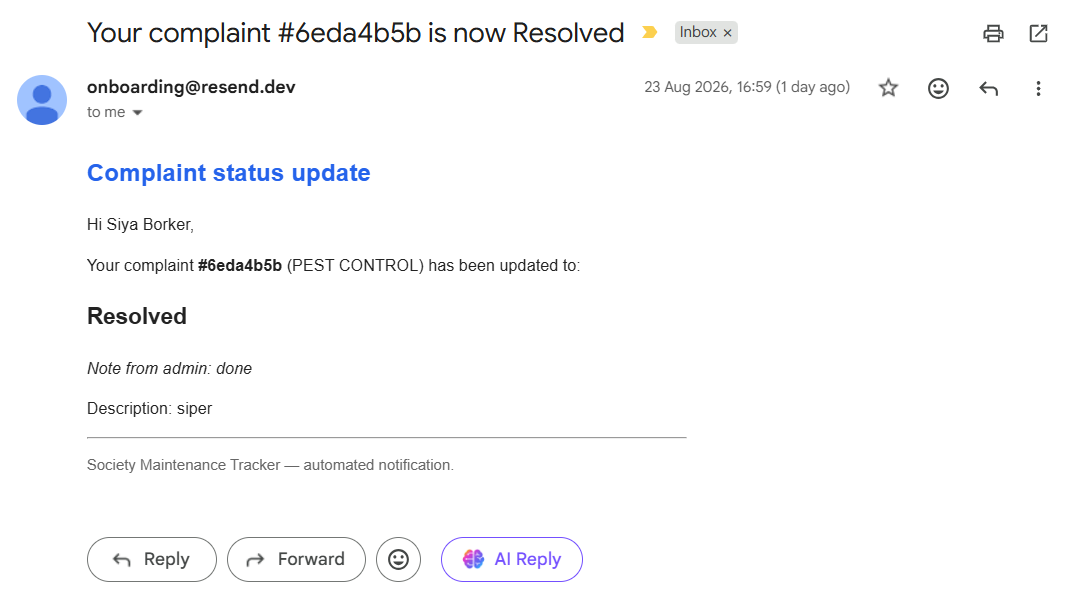
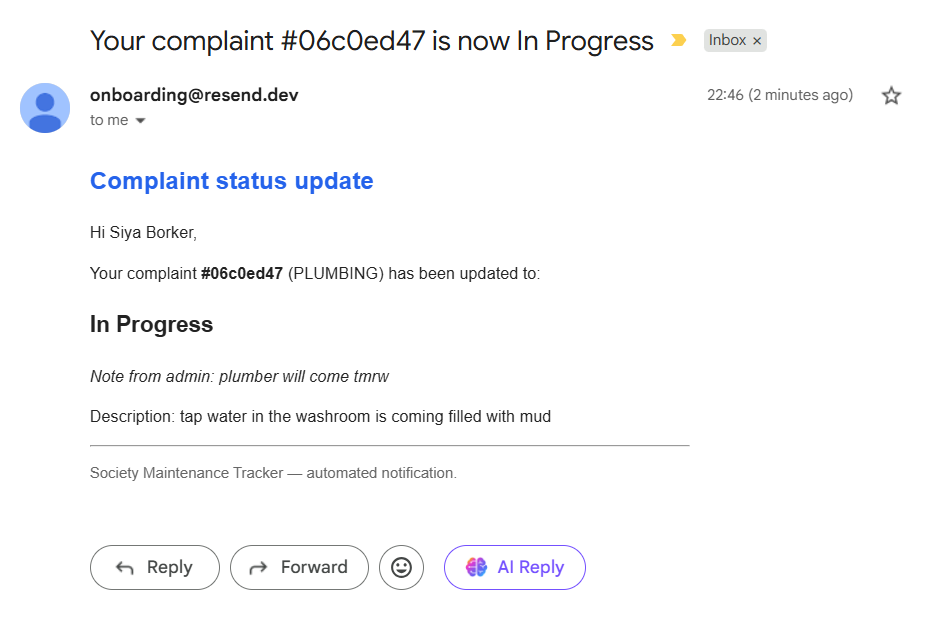
docs: document the comment thread feature and update email proof
Updated the email notification proof section with fresh screenshots for
both notification types the app now sends (status change, new comment) —
replaces the old single status-change screenshot.

Documents the new comment/message feature added since the last docs pass:
- README §4 (database schema): complaint_comments table + index
- README §5 (API docs): POST /complaints/:id/comments
- README §7 (design decisions): why comments are a separate table from
  the status-change audit trail, and why they stay open on Resolved
  complaints
- docs/SYSTEM_DESIGN.md: new "Comment threads" section explaining the
  same reasoning in more depth, plus corrected the "Notification flow"
  section, which still said email went through Nodemailer/Gmail (stale
  since the Resend migration) — now covers all three notification events
  and their fan-out directions.

diff --git a/README.md b/README.md
@@ -175,14 +175,19 @@ One row per status change (including the initial "Open" row created when a
 complaint is raised) — this *is* the audit trail the brief asks for, not a
 denormalized summary.
 
+**`complaint_comments`** — `id, complaintId → complaints.id, authorId → users.id, authorRole, message, createdAt`
+A free-form resident<->admin discussion thread per complaint, kept
+deliberately separate from `complaint_status_history` — see §7 below.
+
 **`notices`** — `id, title, body, isImportant, authorId → users.id, createdAt`
 
 **`settings`** — singleton row (`id = 1`) holding `overdueThresholdDays`, the
 configurable number of days after which an open complaint is flagged overdue.
 
 Indexes: `complaints(residentId, status, category, priority, createdAt)` for
-the admin filter/sort queries, `complaint_status_history(complaintId)` for
-timeline lookups, `notices(isImportant, createdAt)` for the pinned-notice sort.
+the admin filter/sort queries, `complaint_status_history(complaintId)` and
+`complaint_comments(complaintId)` for timeline/thread lookups,
+`notices(isImportant, createdAt)` for the pinned-notice sort.
 
 ---
 
@@ -206,9 +211,10 @@ require the caller's role to be `ADMIN`.
 |---|---|---|---|
 | POST | `/complaints` | Resident | `multipart/form-data`: `category, description, photo?`. Creates the complaint and its first history entry (`OPEN`). |
 | GET | `/complaints` | Any | Resident sees only their own; Admin sees all. Query: `category, status, dateFrom, dateTo, page, limit`. Admin results are sorted overdue-first, then priority, then newest. Each complaint includes computed `isOverdue` / `daysOpen`. |
-| GET | `/complaints/:id` | Any (owner or admin) | Includes full status history. |
+| GET | `/complaints/:id` | Any (owner or admin) | Includes full status history and the comment thread (oldest first, with author name/role). |
 | PATCH | `/complaints/:id/status` | **(admin)** | `{ status, note? }`. Appends a history row, emails the resident, sets `resolvedAt` when status becomes `RESOLVED`. Rejects further updates once a complaint is `RESOLVED` (closed). |
 | PATCH | `/complaints/:id/priority` | **(admin)** | `{ priority }`. |
+| POST | `/complaints/:id/comments` | Owner resident or **(admin)** | `{ message }` (1-2000 chars). Allowed even on a `RESOLVED` complaint — only status/priority are locked, not conversation. Emails the other party (admin comment → resident; resident comment → every admin). Rate-limited per user (20/10min). |
 
 ### Notices
 
@@ -266,6 +272,14 @@ npm run lint
   (recorded as the first `OPEN` history row), so the timeline a resident sees
   is literally the same table the admin's changes are written to — not two
   systems that could drift apart.
+- **Comments are a separate table from the status-change audit trail.**
+  `complaint_comments` holds free-form resident<->admin conversation
+  ("when are you free for the technician?" / "tomorrow after 5pm"), kept
+  deliberately out of `complaint_status_history` so the formal audit trail
+  stays exactly what it's for — status/priority changes with an actor and a
+  timestamp — while the conversation can grow without cluttering it. Unlike
+  status/priority, comments are allowed even after a complaint is `RESOLVED`
+  and closed, since there's often still something to discuss after the fact.
 - **Email sends via Resend's HTTPS API, not SMTP.** An earlier Nodemailer +
   Gmail SMTP implementation worked locally but failed in production on Render
   with `ENETUNREACH`/`ETIMEDOUT` connecting to `smtp.gmail.com`. Render's free
@@ -290,8 +304,14 @@ npm run lint
 ## 8. Email notification proof
 
 Since Resend's free tier (no custom domain verified) only delivers to the
-account's own address, here's a screenshot confirming email notifications are
-fully implemented and working end to end — this is a real email received when
-an admin changed a complaint's status:
+account's own address, here are screenshots confirming email notifications
+are fully implemented and working end to end — real emails received for the
+two notification types the app sends.
 
-![Email notification received via Resend](docs/email-notification-proof.png)
+**Status change** (admin updates a complaint's status):
+
+![Email notification received via Resend for a status change](docs/email-notification-proof.png)
+
+**New comment** (admin or resident posts a message on a complaint):
+
+![Email notification received via Resend for a new comment](docs/email-notification-comment-proof.png)

diff --git a/docs/SYSTEM_DESIGN.md b/docs/SYSTEM_DESIGN.md
@@ -30,6 +30,31 @@ timestamp; both the resident's detail view and the admin's detail view render
 it as the same timeline component, so residents see the exact record admins
 are writing, not a derived summary.
 
+## Comment threads
+
+Comments live in their own table, `complaint_comments` (`complaintId`,
+`authorId`, `authorRole`, `message`, `createdAt`) — not appended to
+`complaint_status_history`. The two are semantically different: history is
+a formal, append-only audit trail of *state changes* (status/priority, who
+changed it, when), while comments are free-form conversation between a
+resident and the admin ("when are you free for the technician?" / "tomorrow
+after 5pm"). Mixing them would force every comment to carry a fake status
+value just to fit the history schema, and would clutter the audit trail
+with chat that isn't a state change. `authorRole` is denormalized onto each
+comment row the same way `actorRole` is on history rows, and for the same
+reason — the thread should still read correctly even if a user's role
+changes later.
+
+Unlike status/priority, comments are **not** locked once a complaint is
+`RESOLVED`. A resolved complaint can still have loose ends worth discussing
+("thanks, but the leak came back") — locking conversation the moment the
+formal record closes would just push residents to email or call instead,
+losing the record entirely. Permission is a single rule reused for both
+viewing a complaint and commenting on it: the complaint's owning resident,
+or any admin (`canComment(user, complaint)` in
+`backend/src/utils/commentPermissions.js`, unit-tested independently of the
+route so the rule is verified without spinning up Express).
+
 ## Overdue detection
 
 Overdue is a **derived, not stored** property. Storing an `isOverdue` boolean
@@ -68,14 +93,22 @@ asset rather than leaving it orphaned.
 
 ## Notification flow
 
-Two events trigger email via Nodemailer/Gmail: a complaint's status changing,
-and a new notice being posted with `isImportant: true`. Both are sent
-synchronously inside the same request that caused them (not queued), which
-keeps the system simple and appropriate for a single society's volume, at the
-cost of the HTTP response waiting on an SMTP round-trip. Failures are caught
-and logged rather than thrown — a broken mail provider must never roll back
-or fail the underlying status update or notice post, since email is a
-notification of a fact, not the fact itself. For an important notice, the
-API fetches all residents and emails each one; at society scale (tens to low
-hundreds of flats) this is a handful of sequential-ish `Promise.all` sends,
-not a bulk-mail problem requiring a queue.
+Three events trigger email via Resend's HTTPS API (see the README's "Design
+decisions" section for why Resend and not SMTP): a complaint's status
+changing, a new comment being posted on a complaint, and a new notice being
+posted with `isImportant: true`. All three are sent synchronously inside the
+same request that caused them (not queued), which keeps the system simple
+and appropriate for a single society's volume, at the cost of the HTTP
+response waiting on the email API round-trip. Failures are caught and logged
+rather than thrown — a broken mail provider must never roll back or fail the
+underlying status update, comment, or notice post, since email is a
+notification of a fact, not the fact itself.
+
+Fan-out direction depends on the event: an important notice emails every
+resident; a status change emails the one resident who owns the complaint;
+a new comment emails *the other party* — an admin's comment emails the
+complaint's resident, but a resident's comment emails every admin, since a
+society commonly has more than one admin/committee member and there's no
+single "the admin" to address. At society scale (tens to low hundreds of
+flats, a handful of admins) these are all small `Promise.all` fan-outs, not
+a bulk-mail problem requiring a queue.
